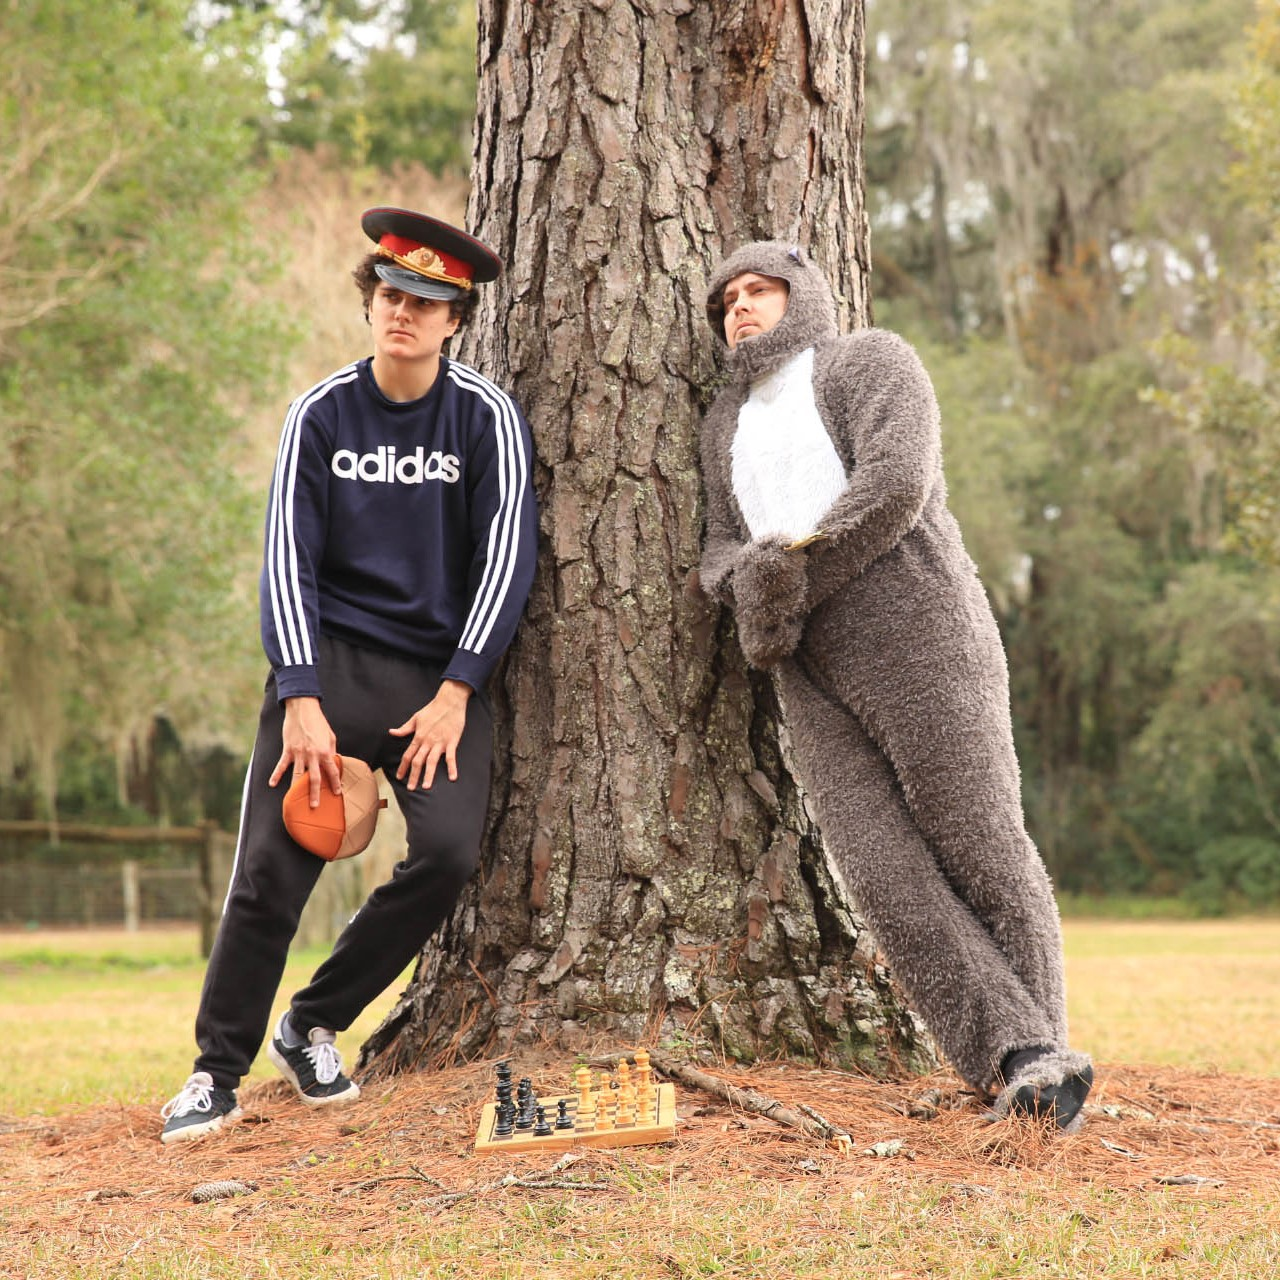
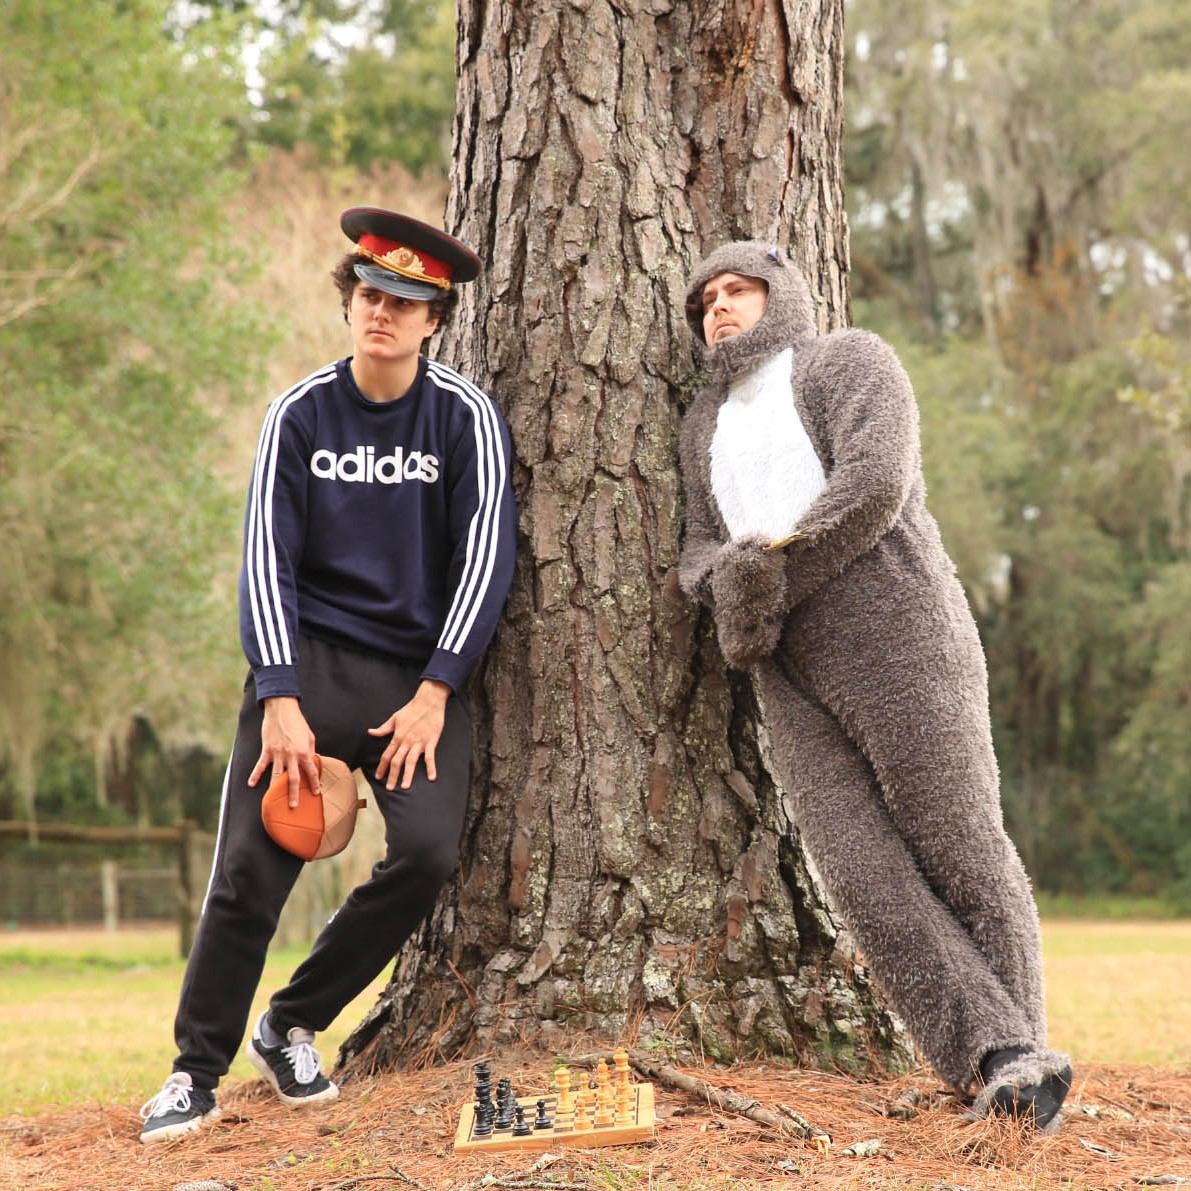
First commit of BorschtPorsche.com v2 babyyyy..

diff --git a/src/data/recipes.js b/src/data/recipes.js
@@ -1,5 +1,5 @@
 // Recipe content driving /recipes and /recipes/:slug.
-// Photos are striped placeholders until real photography arrives —
+// Photos are striped placeholders until real photos are uploaded -
 // `photoCaption` / `detailPhotoCaption` label the placeholder areas.
 export const recipes = [
     {
@@ -8,7 +8,7 @@ export const recipes = [
         summary:
             "The namesake. Deep-red beet soup, slow-simmered, served with a spoon of smetana and total silence at the table.",
         description:
-            "The soup the band is named after. Beets, cabbage, and patience. Tastes better the next day — like most things.",
+            "The soup the band is named after. Beets, cabbage, and patience. Tastes better the next day - like most things.",
         photoCaption: "photo: mom's borscht",
         detailPhotoCaption: "photo: finished borscht, overhead",
         prep: "Prep 30 min",
@@ -29,7 +29,7 @@ export const recipes = [
             "Sauté onion and carrot in a large pot until soft. Add grated beets and tomato paste; cook 8–10 minutes until deep red.",
             "Pour in broth, add potatoes and bay leaves. Simmer 20 minutes until potatoes are nearly tender.",
             "Add cabbage and simmer another 15 minutes. Season with salt and pepper. Taste. Adjust. Taste again.",
-            "Rest off the heat 20 minutes (or overnight — correct answer). Serve with dill and a spoon of smetana.",
+            "Rest off the heat 20 minutes (or overnight - correct answer). Serve with dill and a spoon of smetana.",
         ],
     },
     {
@@ -93,9 +93,9 @@ export const recipes = [
         slug: "olivyea",
         title: "Olivyea",
         summary:
-            "The New Year's salad. Potatoes, peas, pickles, mayonnaise — precision knife work required.",
+            "The New Year's salad. Potatoes, peas, pickles, mayonnaise - precision knife work required.",
         description:
-            "The New Year's table centerpiece. Everything diced to the same tiny cube — the knife work is the recipe.",
+            "The New Year's table centerpiece. Everything diced to the same tiny cube - the knife work is the recipe.",
         photoCaption: "photo: olivyea",
         detailPhotoCaption: "photo: olivyea, serving bowl",
         prep: "Prep 45 min",
@@ -114,7 +114,7 @@ export const recipes = [
         steps: [
             "Boil the potatoes and carrots until just tender; cool completely. Hard-boil the eggs.",
             "Peel everything. Dice potatoes, carrots, eggs, pickles, and bologna into identical small cubes. Identical.",
-            "Fold in the peas and onion, then dress with mayonnaise until just bound — not drowned.",
+            "Fold in the peas and onion, then dress with mayonnaise until just bound - not drowned.",
             "Season, chill at least an hour, and top with dill. Serve at midnight or whenever it is midnight somewhere.",
         ],
     },

diff --git a/src/pages/Contact.jsx b/src/pages/Contact.jsx
@@ -7,7 +7,7 @@ import "../styles/contact.css";
 
 const EMAIL_RE = /^[^\s@]+@[^\s@]+\.[^\s@]+$/;
 
-// ---------- Ghost inbox sources (CONTACT_PAGE_UPDATE.md, Feature 2) ----------
+// ---------- Ghost inbox sources ----------
 const FAN_MAIL = [
     "Is the Porsche real?",
     "Saw you at the Hardback. Still thinking about the trumpet part.",
@@ -223,7 +223,7 @@ export default function Contact() {
         return () => clearInterval(id);
     }, []);
 
-    // Steam wisps while cooking.
+    // Steam wisps while cooking (mmmmmm, borscht).
     useEffect(() => {
         if (!cooking || reducedMotion.current) return undefined;
         const id = setInterval(() => spawnSteam(steamRef.current), 900);
@@ -332,7 +332,7 @@ export default function Contact() {
                         <h1 className="h1-gradient">Say hi</h1>
                         <p className="page-intro">
                             Booking, press, recipe corrections, chess challenges. We read everything
-                            — the ghosts behind this page are proof.
+                            - the ghosts behind this page are proof.
                         </p>
                         <div className="magnets">
                             {magnetLinks.map(([label, href], i) => (
@@ -407,13 +407,13 @@ export default function Contact() {
                                     {buttonLabel}
                                 </button>
                                 <span className="contact-hint">
-                                    psst — try typing "booking" or "borscht"
+                                    psst - try typing "booking" or "borscht"
                                 </span>
                             </div>
 
                             {status === "error" && (
                                 <div className="contact-status contact-status-err">
-                                    Something went wrong — try again in a minute.
+                                    Something went wrong - try again in a minute.
                                 </div>
                             )}
                         </form>

diff --git a/src/pages/Films.jsx b/src/pages/Films.jsx
@@ -3,7 +3,7 @@ import Nav from "../components/Nav.jsx";
 import Footer from "../components/Footer.jsx";
 import "../styles/films.css";
 
-// Cinemadrome entries — first is the initially featured film (FILMS_PAGE_UPDATE.md).
+// Cinemadrome entries - first is the initially featured film.
 const FILM_IDS = [
     "1ZI7aymSjnQ",
     "c-VimQslsNs",
@@ -27,7 +27,7 @@ const TICKER_ITEMS = [
 ];
 
 // How many times the item run is repeated in the track. The CSS keyframe
-// shifts by exactly one run (-100% / TICKER_REPEATS), so these must match —
+// shifts by exactly one run (-100% / TICKER_REPEATS), so these must match -
 // see @keyframes ticker in films.css.
 const TICKER_REPEATS = 6;
 
@@ -86,6 +86,7 @@ export default function Films() {
     }, []);
 
     // Featured player via the YouTube IFrame API; dim the lights while playing.
+    // Gives the page a "screening room" feel, and avoids the YouTube player controls from
     useEffect(() => {
         let cancelled = false;
         const wrapper = playerHostRef.current;
@@ -115,7 +116,7 @@ export default function Films() {
         };
     }, []);
 
-    // "Screen it": swap the tile's film into the projector (autoplays — this is
+    // "Screen it": swap the tile's film into the projector (autoplays - this is
     // always a user pick), return the old featured to the grid, lights back up
     // until the new video reports playing.
     function screenIt(id) {
@@ -155,7 +156,7 @@ export default function Films() {
                             <h1 className="h1-gradient">Films</h1>
                             <p className="page-intro">
                                 Our entries from Cinemadrome, Gainesville's local film competition.
-                                Made fast, scored by us, judged by strangers.
+                                Made fast, directed and scored by us, judged by the audience.
                             </p>
                             <div className="films-now">Now screening · {featuredTitle}</div>
                         </header>

diff --git a/src/styles/home.css b/src/styles/home.css
@@ -1,4 +1,4 @@
-/* ---------- Home (mockup 4a desktop, 6b tablet, 6a phone) ---------- */
+/* ---------- Home ---------- */
 .home {
     position: relative;
     min-height: 100vh;
@@ -10,7 +10,7 @@
 .home-bg {
     position: fixed;
     inset: 0;
-    background: url("/assets/home_page_background_square2.jpg") no-repeat center 38%;
+    background: url("/assets/home_page_background_square.jpg") no-repeat center 38%;
     -webkit-background-size: cover;
     -moz-background-size: cover;
     -o-background-size: cover;
@@ -150,7 +150,7 @@
     text-align: center;
 }
 
-/* ---------- Tablet (6b) ---------- */
+/* ---------- Tablet ---------- */
 @media (max-width: 1100px) {
     .home-scrim {
         background: linear-gradient(
@@ -225,7 +225,7 @@
     }
 }
 
-/* ---------- Phone (6a) ---------- */
+/* ---------- Phone ---------- */
 @media (max-width: 700px) {
     .home-scrim {
         background: linear-gradient(

diff --git a/src/lib/contact.js b/src/lib/contact.js
@@ -1,14 +1,14 @@
 // Contact form backend stub.
 //
 // The client will wire a free contact-message service (Formspree, Web3Forms,
-// Basin, etc.) later. To hook one up, set CONTACT_ENDPOINT to the service's
-// POST URL — the form data is sent as JSON. While the endpoint is empty the
+// Basin, etc.) later. Will have to set CONTACT_ENDPOINT to the service's
+// POST URL - the form data is sent as JSON. While the endpoint is empty the
 // submit is simulated so the UI flow (sending → sent) can be exercised.
 const CONTACT_ENDPOINT = "";
 
 export async function submitContactMessage({ name, email, message }) {
     if (!CONTACT_ENDPOINT) {
-        // Simulated send — replace by setting CONTACT_ENDPOINT above.
+        // Simulated send - replace by setting CONTACT_ENDPOINT above.
         await new Promise((resolve) => setTimeout(resolve, 600));
         return;
     }

diff --git a/src/styles/films.css b/src/styles/films.css
@@ -1,4 +1,4 @@
-/* ---------- Films — "Screening Room Deluxe" (FILMS_PAGE_UPDATE.md, mockup 8a) ---------- */
+/* ---------- Films ---------- */
 .films-page {
     position: relative;
     overflow: hidden;
@@ -117,7 +117,7 @@
     border: 0;
 }
 
-/* Festival ticker — full viewport width, outside the contained column */
+/* Festival ticker - full viewport width, outside the contained column */
 .films-ticker {
     position: relative;
     margin: 24px 0 4px;
@@ -145,7 +145,7 @@
     content: "·";
     margin: 0 16px;
 }
-/* Shift by exactly one run of items — must stay -100% / TICKER_REPEATS
+/* Shift by exactly one run of items - must stay -100% / TICKER_REPEATS
    (see Films.jsx) so the loop restart lands on an identical frame. */
 @keyframes ticker {
     to {

diff --git a/src/components/AmbientLayers.jsx b/src/components/AmbientLayers.jsx
@@ -1,9 +1,9 @@
 import "./ambient.css";
 
-// Ambient background animation layers for the Home page (mockup 4a):
+// Ambient background animation layers for the Home page:
 // pulsing glow, drifting low-poly shards, twinkling dust, equalizer bars.
-// Hidden below 700px and reduced below 1100px (mockups 6a/6b); all
-// animations stop under prefers-reduced-motion — see ambient.css.
+// Hidden below 700px and reduced below 1100px; all
+// animations stop under prefers-reduced-motion - see ambient.css.
 export default function AmbientLayers() {
     return (
         <div className="ambient" aria-hidden="true">

diff --git a/vite.config.js b/vite.config.js
@@ -3,8 +3,10 @@ import react from "@vitejs/plugin-react";
 
 // File-change notifications don't cross the Windows→WSL filesystem boundary
 // (/mnt/c/...), so when the dev server runs inside WSL, watch by polling
-// instead — otherwise hot reload never triggers. Native Windows runs keep the
+// instead - otherwise hot reload never triggers. Native Windows runs keep the
 // normal event-based watcher.
+// Really just a preference for dev convenience; the app itself is fully 
+// cross-platform and deployable anywhere.
 const runningInWSL = !!process.env.WSL_DISTRO_NAME;
 
 export default defineConfig({

diff --git a/index.html b/index.html
@@ -7,7 +7,7 @@
         <title>Borscht Porsche</title>
         <meta
             name="description"
-            content="Borscht Porsche — self-titled debut album out now. New single with REDII. Next album simmering."
+            content="Borscht Porsche - self-titled debut album out now. New single with REDII. Next album simmering."
         />
         <link rel="preconnect" href="https://fonts.googleapis.com" />
         <link rel="preconnect" href="https://fonts.gstatic.com" crossorigin />

diff --git a/src/components/ambient.css b/src/components/ambient.css
@@ -194,7 +194,7 @@
     animation: bpEq 1.05s ease-in-out infinite 0.45s;
 }
 
-/* Tablet (mockup 6b): reduced counts, smaller glow, no equalizer */
+/* Tablet - reduced counts, smaller glow, no equalizer */
 @media (max-width: 1100px) {
     .ambient-glow {
         left: 52%;
@@ -241,7 +241,7 @@
     }
 }
 
-/* Phone (mockup 6a): no ambient effects at all */
+/* Phone - no ambient effects at all */
 @media (max-width: 700px) {
     .ambient {
         display: none;

diff --git a/src/pages/Home.jsx b/src/pages/Home.jsx
@@ -80,7 +80,7 @@ export default function Home() {
                             src="/assets/next_album_white.png"
                             alt="Next album"
                         />
-                        <div className="card-next-caption">No link yet — check back soon.</div>
+                        <div className="card-next-caption">No link yet - check back soon.</div>
                     </div>
                 </div>
 

diff --git a/src/components/Nav.jsx b/src/components/Nav.jsx
@@ -3,7 +3,8 @@ import { Link, NavLink } from "react-router-dom";
 
 const NAV_ITEMS = [
     { to: "/", label: "Home" },
-    { to: "/recipes", label: "Recipes" },
+    // TODO: Re-enable recipes when we have more than one recipe. For now, the recipes page is just a placeholder.
+    // { to: "/recipes", label: "Recipes" },
     { to: "/films", label: "Films" },
     { to: "/contact", label: "Contact" },
 ];
